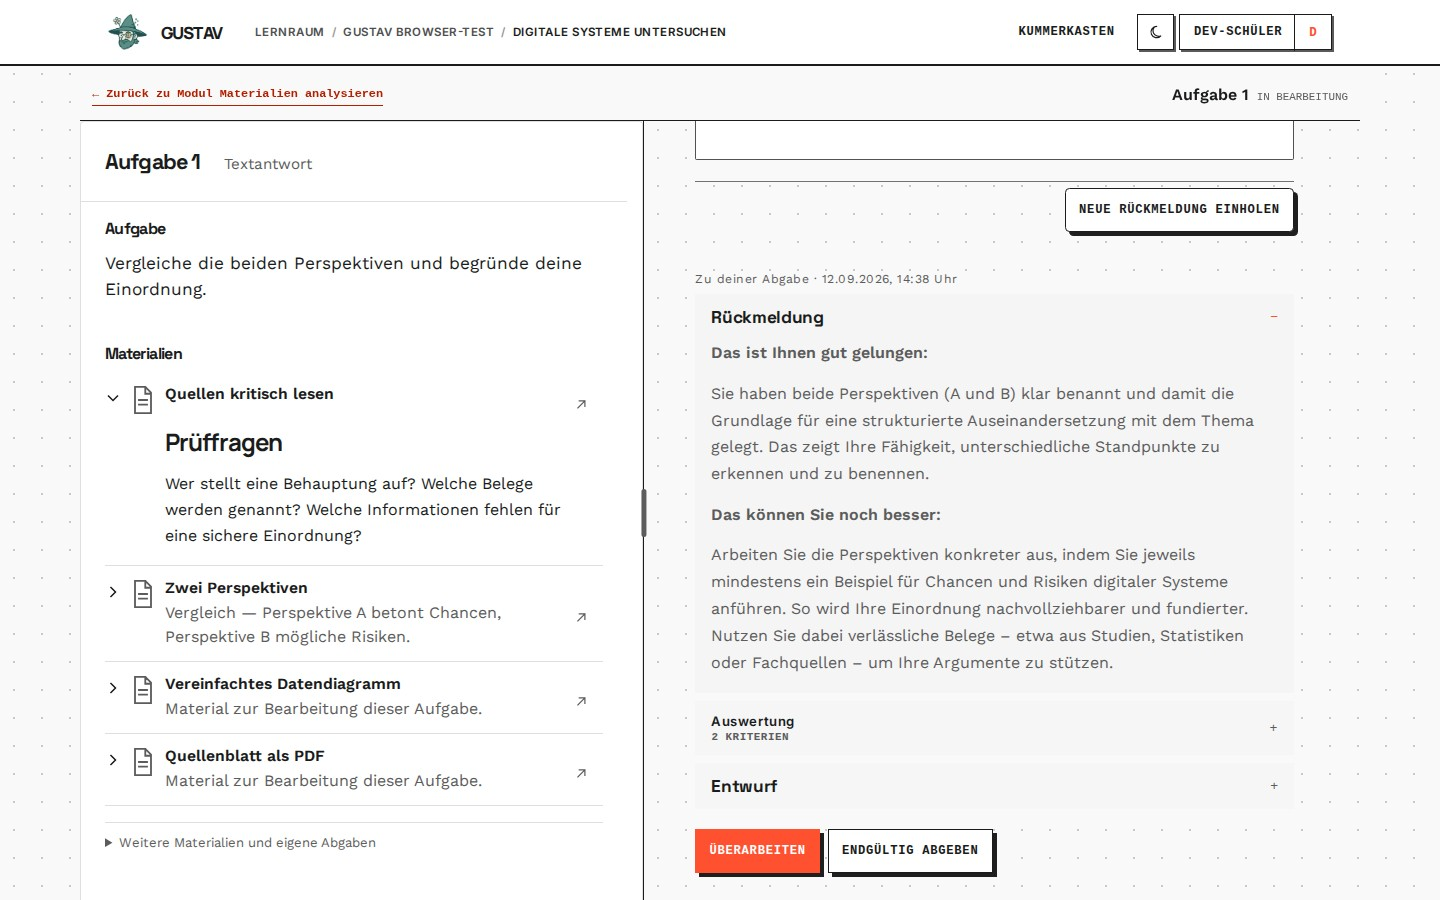
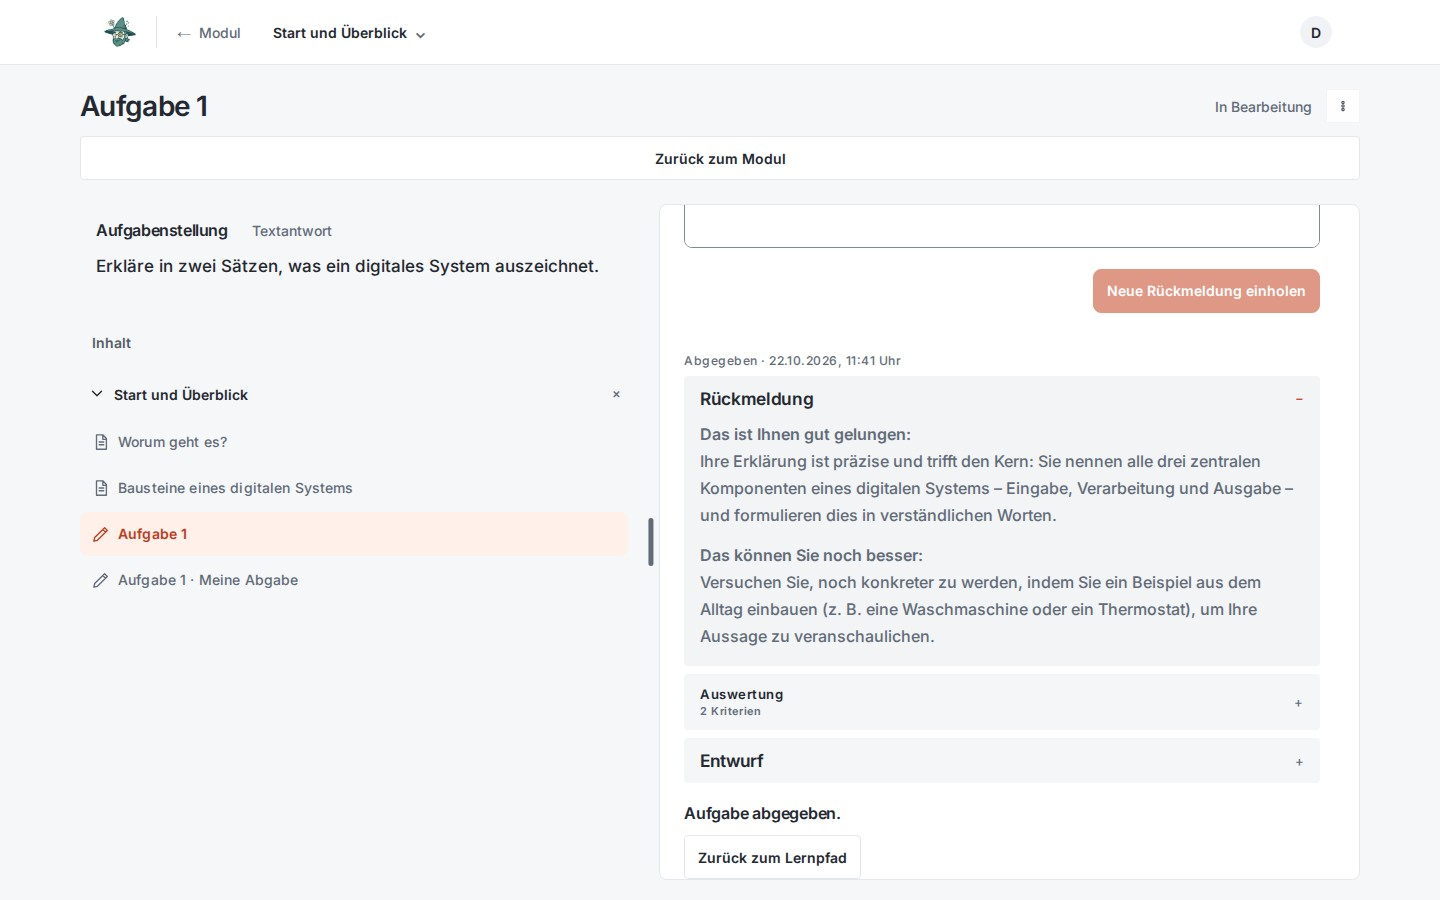
docs: refresh README gallery for current interface

diff --git a/docs/plan/2026-10-23-readme-bilder.md b/docs/plan/2026-10-23-readme-bilder.md
@@ -1,0 +1,33 @@
+# README-Galerie an die aktuelle Oberfläche anpassen
+
+## Auftrag und Umfang
+
+Die sechs Produktbilder im README zeigen noch das frühere Design. Als interessierter Leser möchte ich die aktuelle Oberfläche anhand realer, verständlicher Ansichten mit ausschließlich synthetischen Beispieldaten kennenlernen.
+
+## Vorgehen und Prüfnachweise
+
+1. Bestehende Bildverweise und lokale HTTPS-Vertrauensstellung prüfen.
+2. Die vorhandenen dedizierten Browser-Personas verwenden und die sechs Ansichten neu aufnehmen: Kursübersicht, modularer Editor, Einladungsdialog, Aufgabenarbeitsplatz, formative Rückmeldung und Übungsauswahl. Keine vorhandenen Lernstände zurücksetzen; keine aktiven Einladungstoken veröffentlichen.
+3. Alle Bilder visuell auf aktuelle Gestaltung, passende Ausschnitte, Lesbarkeit und ausschließlich öffentliche Beispieldaten prüfen. Die vorhandenen Bildpfade beibehalten und den Aufnahmezeitpunkt im README nennen.
+4. Bildverweise, JPEG-Dateien und Änderungen prüfen sowie `make verify` ausführen. Anschließend lokal auf `master` committen; kein Push.
+
+Es werden ausschließlich Dokumentation und Bilddateien geändert. Produktabläufe, API-Vertrag, Datenbankschema und Browser-Kompatibilität einschließlich iPadOS 15.3.1 bleiben unverändert. Deshalb ist kein neues Feature-Abnahmeszenario nötig. Die authentifizierte Aufnahme erfolgt über den echten lokalen Stack mit regulärer Zertifikatsprüfung; die sechs Bilder werden zusätzlich einzeln visuell geprüft.
+
+## Ausgangsprüfung
+
+- Arbeitsbaum sauber; Ausgangsstand `aeeef48c`.
+- Alle sechs Bildverweise auf `docs/assets/readme/*.jpg` vorhanden; vorherige Aufnahmen vom September 2026 zeigen die frühere Gestaltung.
+- `make local-ca-status`: aktuelle Caddy-CA in System, Chromium/Codex und Firefox vertraut.
+- Vorhandene Dev-Landschaft vollständig; kein Reset erforderlich.
+
+## Umsetzung und Bildprüfung
+
+- Alle sechs JPEGs unter den bisherigen Pfaden neu aufgenommen: Chromium, 1440 × 900 Pixel, deutsche Oberfläche, Light Mode, echter Login und lokaler Produktiv-Stack. Auf das Laden von Schriften und gespeicherten Rückmeldungen gewartet.
+- Kurskatalog und vollständiger modularer Graph zeigen die aktuelle Navigation und Gestaltung. Der Aufgabenarbeitsplatz zeigt Materialnavigation und einen ausschließlich im temporären Browser-Kontext erstellten Beispielentwurf; dafür wurde keine neue Abgabe abgeschickt.
+- Die bestehende synthetische Einstiegsabgabe liefert die formative Rückmeldung. Die Übungsauswahl zeigt beide vorhandenen Übungsmodule, ohne eine Sitzung zu starten oder den Lernstand zu verändern.
+- Für den Einladungsdialog einen Demo-Link erzeugt, aufgenommen und unmittelbar danach über die Oberfläche widerrufen. Das erneute Erscheinen von „Klassenlink erstellen“ bestätigt den Widerruf. Keine E-Mails versandt.
+- Alle sechs finalen Bilder einzeln visuell geprüft: vollständig geladene Inhalte, passende Ansichten, einheitliche Abmessungen und keine personenbezogenen Daten. Die Rückmeldung ist bewusst im gescrollten Aufgabenbereich geöffnet.
+- Alle sieben README-Bildverweise einschließlich Logo gültig; JPEG-Format, Abmessungen und fehlende EXIF-Metadaten geprüft. Die Galerie umfasst zusammen 514.534 Bytes. Aufnahmezeitpunkt und widerrufener Demo-Link sind im README-Kommentar festgehalten.
+- Die tatsächliche README-Tabelle zusätzlich lokal im Browser gerendert: Alle sechs Bilder laden gemeinsam und besitzen dieselben Abmessungen; die vollständige Galerie visuell geprüft.
+- `git diff --check` erfolgreich. `make verify` erfolgreich: 3192 Backend-Tests bestanden, 36 übersprungen, zwei bereits bekannte Storage-URI-Warnungen; 879 Frontend-Tests in 177 Dateien, elf Build-/CSS-Prüfungen und 80 H5P-Tests bestanden. Svelte-Prüfung ohne Fehler oder Warnungen; Produktions-Build erfolgreich.
+- Der Learning-Worker wurde nur während der Repository-Prüfung angehalten und danach wieder gestartet. Keine Produkt-, API-, Schema- oder Kompatibilitätsänderungen. Lokaler Dokumentationscommit; kein Push.

diff --git a/README.md b/README.md
@@ -24,6 +24,8 @@ My hope is that these elements can contribute to better learning processes and, 
 
 The gallery shows the real GUSTAV 0.0.4 interface with dedicated, non-personal development data.
 
+<!-- Galerie zuletzt am 23.10.2026 mit der aktuellen Oberfläche aufgenommen. Der abgebildete Demo-Einladungslink ist widerrufen. -->
+
 <table>
   <tr>
     <td width="50%">
